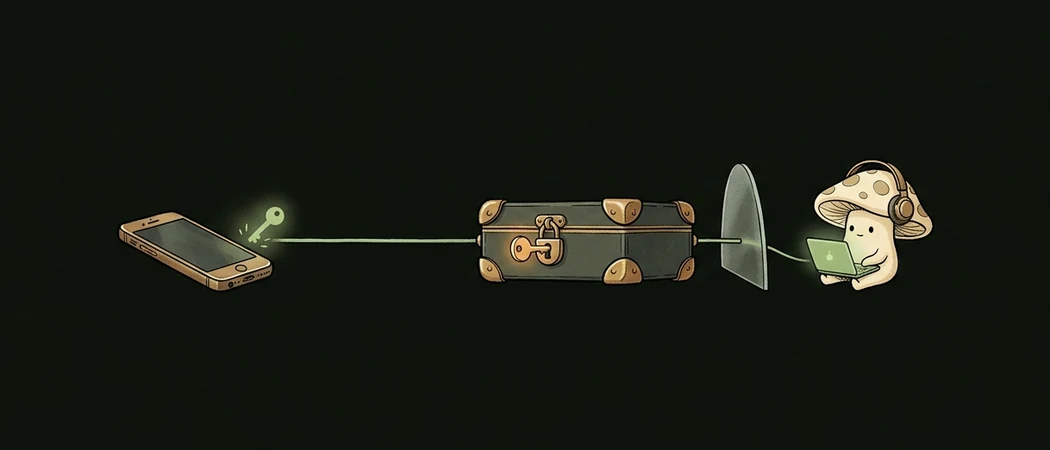
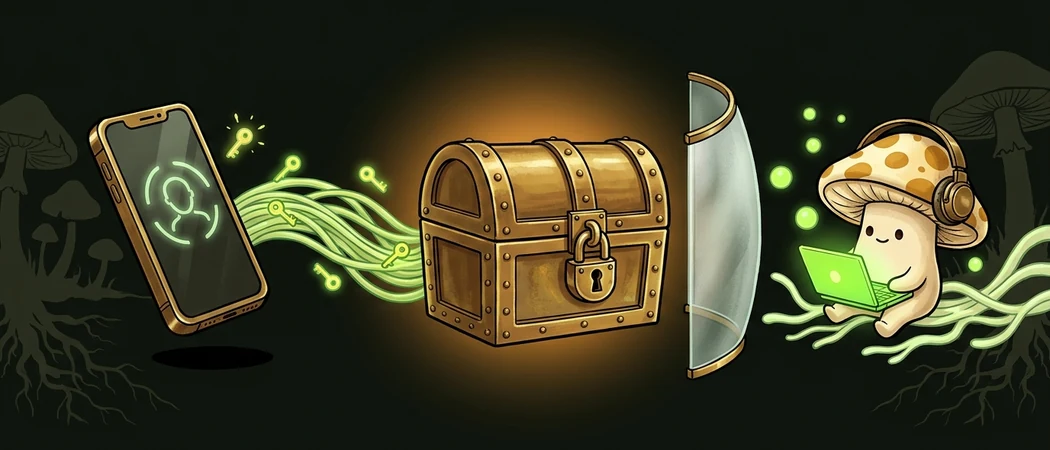
docs(site): match security card illustrations 1-3 to Card 4 scale, glow, and mycelium richness

diff --git a/site/index.html b/site/index.html
@@ -1054,13 +1054,13 @@ hyp deploy init tailscale</pre>
           <!-- 1. End-to-End Encrypted Between Nodes -->
           <article class="sec-card tone-olive">
             <div class="sec-card-media">
-              <img src="./assets/sec-e2ee.webp?v=3" alt="Two compact brass Hyphae nodes connected by a glowing sealed conduit passing through a low locked blind relay box" decoding="async" />
+              <img src="./assets/sec-e2ee.webp?v=4" alt="Two floating brass Hyphae nodes connected by glowing mycelium bundles through a riveted brass blind relay chamber with padlock" decoding="async" />
               <svg class="sec-anim-overlay" viewBox="0 0 350 150" fill="none" aria-hidden="true">
                 <circle class="sec-orb olive" cx="0" cy="0" r="3">
-                  <animateMotion dur="2.8s" repeatCount="indefinite" path="M 76 73 L 128 73" />
+                  <animateMotion dur="2.8s" repeatCount="indefinite" path="M 78 66 C 95 66, 110 81, 130 81" />
                 </circle>
                 <circle class="sec-orb olive" cx="0" cy="0" r="3">
-                  <animateMotion dur="2.8s" begin="1.35s" repeatCount="indefinite" path="M 222 73 L 274 73" />
+                  <animateMotion dur="2.8s" begin="1.35s" repeatCount="indefinite" path="M 220 81 C 240 81, 255 67, 274 67" />
                 </circle>
               </svg>
             </div>
@@ -1090,13 +1090,13 @@ hyp deploy init tailscale</pre>
           <!-- 2. Zero-Context Secrets -->
           <article class="sec-card tone-moss">
             <div class="sec-card-media">
-              <img src="./assets/sec-passkey.webp?v=3" alt="Smartphone sending a glowing key straight into a low brass OS Keychain lockbox separated by a frosted glass divider from a mushroom coding agent" decoding="async" />
+              <img src="./assets/sec-passkey.webp?v=4" alt="Smartphone with Face ID sending glowing key orbs along mycelium strands into a riveted brass OS Keychain vault behind a frosted glass shield separating the mushroom coding agent" decoding="async" />
               <svg class="sec-anim-overlay" viewBox="0 0 350 150" fill="none" aria-hidden="true">
-                <circle class="sec-orb moss" cx="0" cy="0" r="2.8">
-                  <animateMotion dur="2.5s" repeatCount="indefinite" path="M 90 80 L 156 80" />
+                <circle class="sec-orb moss" cx="0" cy="0" r="3">
+                  <animateMotion dur="2.6s" repeatCount="indefinite" path="M 78 70 C 98 66, 118 84, 142 84" />
                 </circle>
-                <circle class="sec-orb moss" cx="0" cy="0" r="2.4">
-                  <animateMotion dur="2.5s" begin="1.15s" repeatCount="indefinite" path="M 234 80 L 250 80 Q 258 84 268 87" />
+                <circle class="sec-orb moss" cx="0" cy="0" r="2.6">
+                  <animateMotion dur="2.6s" begin="1.25s" repeatCount="indefinite" path="M 260 66 Q 268 72 274 78" />
                 </circle>
               </svg>
             </div>
@@ -1126,15 +1126,15 @@ hyp deploy init tailscale</pre>
           <!-- 3. Passkey-Signed Messages -->
           <article class="sec-card tone-amber">
             <div class="sec-card-media">
-              <img src="./assets/sec-sign.webp?v=3" alt="Smartphone with glowing fingerprint sending a brass wax-sealed envelope along a thin mycelium wire to a verifying mushroom agent with a magnifying loupe" decoding="async" />
+              <img src="./assets/sec-sign.webp?v=4" alt="Smartphone with glowing fingerprint streaming mycelium strands into a parchment envelope stamped with a golden mushroom wax seal verified by a mushroom agent with a magnifying loupe" decoding="async" />
               <svg class="sec-anim-overlay" viewBox="0 0 350 150" fill="none" aria-hidden="true">
-                <circle class="sec-orb amber" cx="0" cy="0" r="2.8">
-                  <animateMotion dur="3.1s" repeatCount="indefinite" path="M 84 78.5 L 158 78.5" />
+                <circle class="sec-orb amber" cx="0" cy="0" r="3">
+                  <animateMotion dur="3.0s" repeatCount="indefinite" path="M 76 67 C 96 63, 116 83, 140 80" />
                 </circle>
-                <circle class="sec-orb amber" cx="0" cy="0" r="2.8">
-                  <animateMotion dur="3.1s" begin="1.5s" repeatCount="indefinite" path="M 192 78.3 L 272 78.3" />
+                <circle class="sec-orb olive" cx="0" cy="0" r="2.9">
+                  <animateMotion dur="3.0s" begin="1.45s" repeatCount="indefinite" path="M 208 74 C 224 70, 238 76, 254 74" />
                 </circle>
-                <circle class="sec-seal-pulse" cx="175" cy="78" r="8" />
+                <circle class="sec-seal-pulse" cx="175" cy="76" r="11" />
               </svg>
             </div>
 
